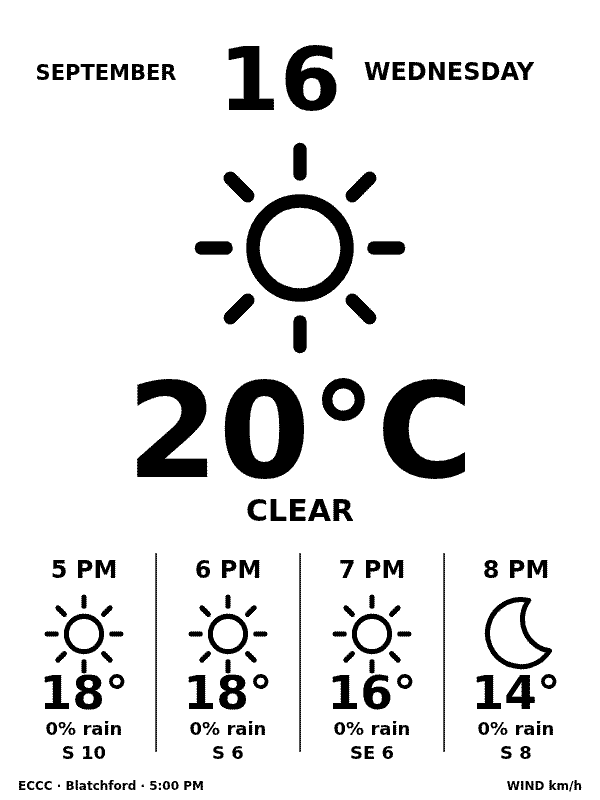
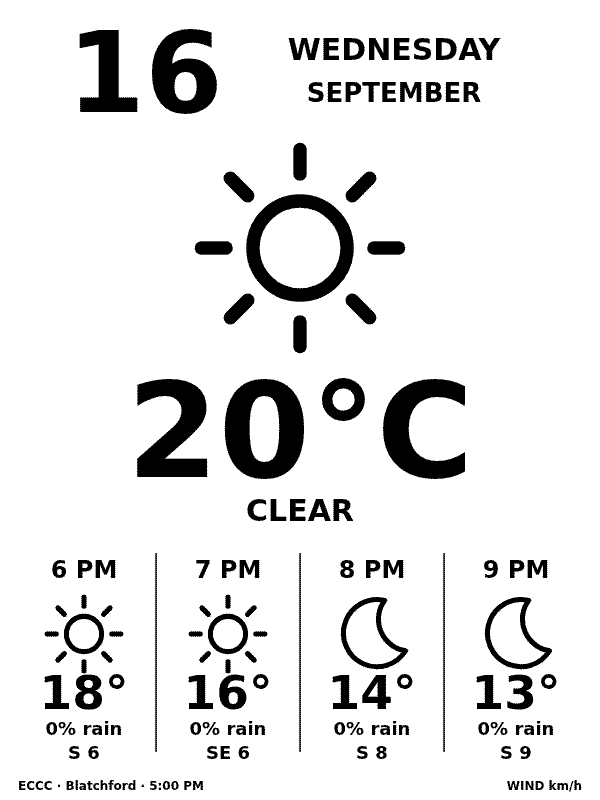
Place date left of stacked weekday and month

diff --git a/upstream/simple_weather.py b/upstream/simple_weather.py
@@ -46,9 +46,9 @@ def artwork(current, hourly, now=None):
         art, label = symbol(path)
         pieces.append(f'<g transform="translate({x},{y}) scale({size/100})">{art}</g>')
         return label
-    text(106,80,now.strftime('%B').upper(),21)
-    text(280,110,now.day,88)
-    text(449,80,now.strftime('%A').upper(),24)
+    text(145,112,now.day,112)
+    text(394, 60,now.strftime('%A').upper(),30)
+    text(394,102,now.strftime('%B').upper(),26)
     label=icon(188,136,224,current.get('icon'))
     temp=current['temperature']
     value=f"{temp['value']}{temp['unit']}"

diff --git a/docs/99-lab-log.md b/docs/99-lab-log.md
@@ -1053,3 +1053,13 @@ Final verification: inspected the deployed 600x800 PNG and saved it as
 SHA-256 of panel.png matched the renderer's simple-weather.png exactly. Both
 services were active. The Nook fetched panel.png with HTTP 200 at 17:28:30.
 Simple Weather remains selected. Physical screen appearance was not inspected.
+
+## 2026-09-16 — Simple Weather header alignment
+
+Moved the large day number to the left and stacked weekday above month on the
+right, as requested. Inspected the 600x800 Chrome preview; Python compilation
+and whitespace checks passed. Backed up the prior adapter under
+~/nook-backups/simple-header-20260916 on nultra, deployed the update and restarted
+the idle renderer. The existing program selection and timing settings are unchanged.
+The updated page rendered at 17:37:55 MDT. Visually inspected the deployed PNG;
+panel.png and simple-weather.png SHA-256 hashes match. Updated the reference image.
